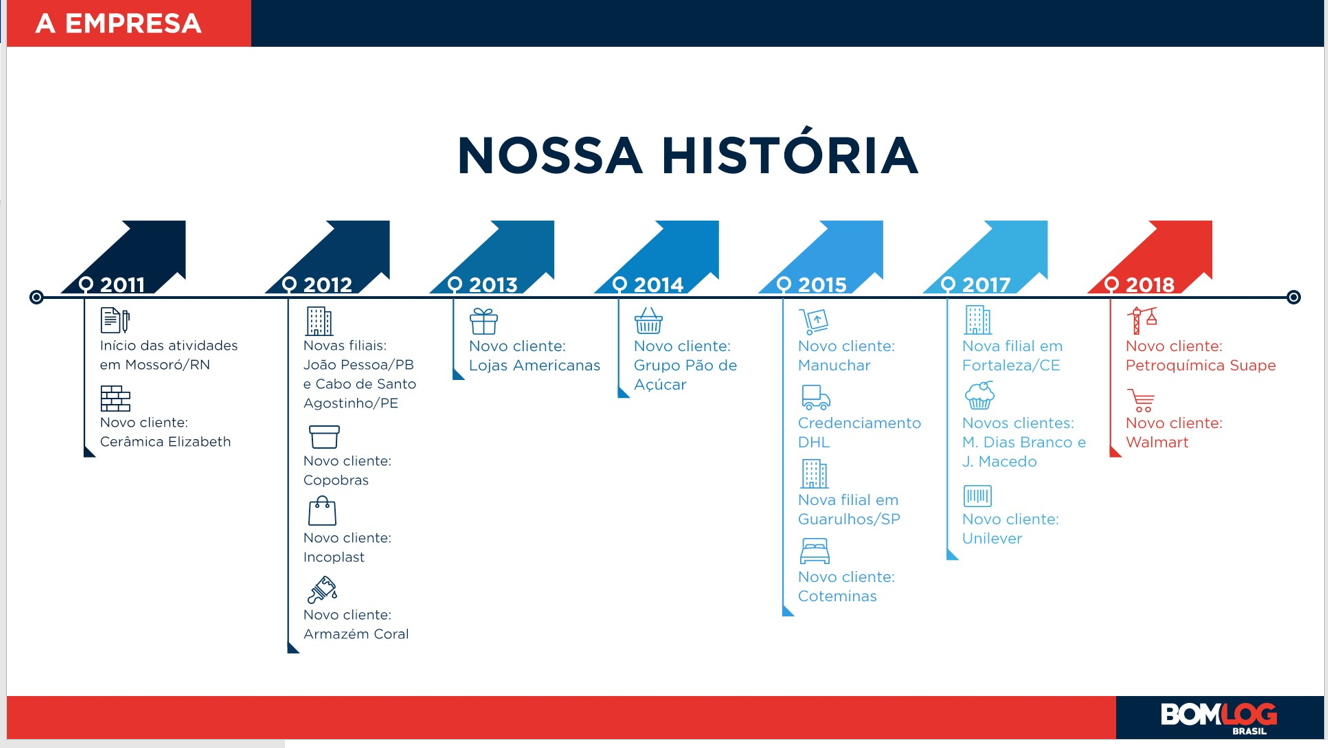
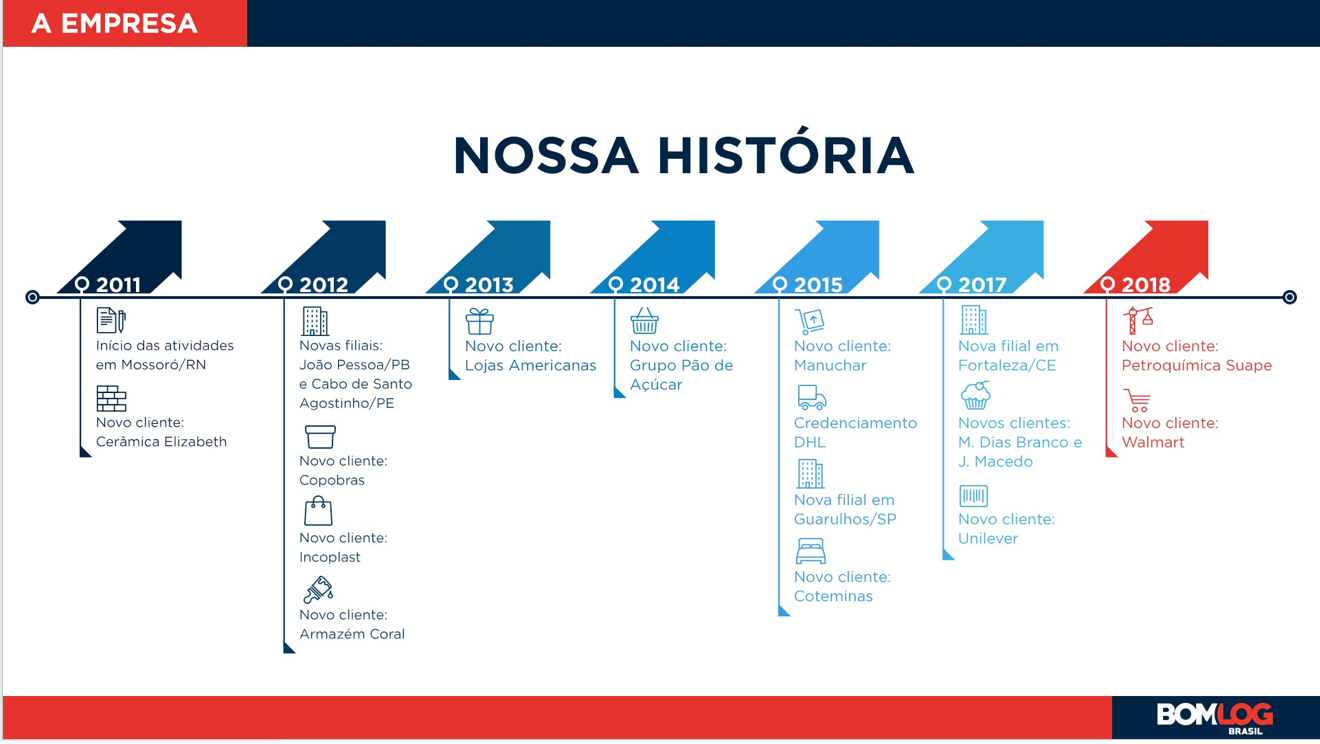
proximo comit

diff --git a/css/quemsomos.css b/css/quemsomos.css
@@ -4,7 +4,7 @@
 }
 
 .container{
-    max-width: 1200px;
+    max-width: 1160px;
     padding-top: 280px;
     margin: 0 auto;
 }
@@ -16,7 +16,7 @@
     font-weight: 700;
     font-size: 3.2rem;
     text-align: center;
-    margin-bottom: 208px;
+    margin-bottom: 150px;
 }
 
 .container .papel-de-parede{
@@ -25,13 +25,9 @@
     background-image: url('../img/capa2.jpeg');
     background-size: cover;
     background-position: left;
-    margin-bottom: 30px;
+    margin-bottom: 120px;
 }
-.container .history{
-    width: 100%;
-    height: 720px;
-    background-image: url('../img/historia.png');
-    background-size: cover;
-    background-position: center;
-    margin-bottom: 30px;
+
+.container .history img{
+    width: 1160px;
 }

diff --git a/quemsomos.html b/quemsomos.html
@@ -30,7 +30,7 @@
             <div class="container">
                 <h1>Somos especialistas nas operações logísticas de norte a sul do Brasil com muita eficiência.</h1>
                 <div class="papel-de-parede"></div>
-                <div class="history"></div>
+                <div class="history"><img src="img/historia.png" alt=""></div>
             </div>
         </section>
     </main>
